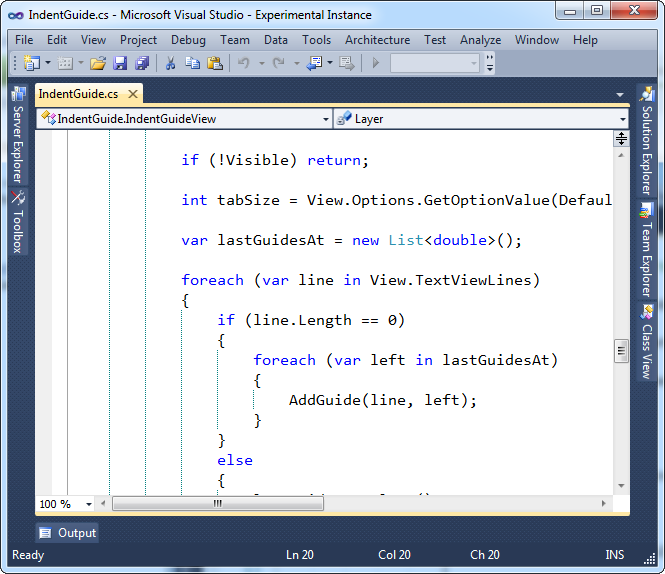
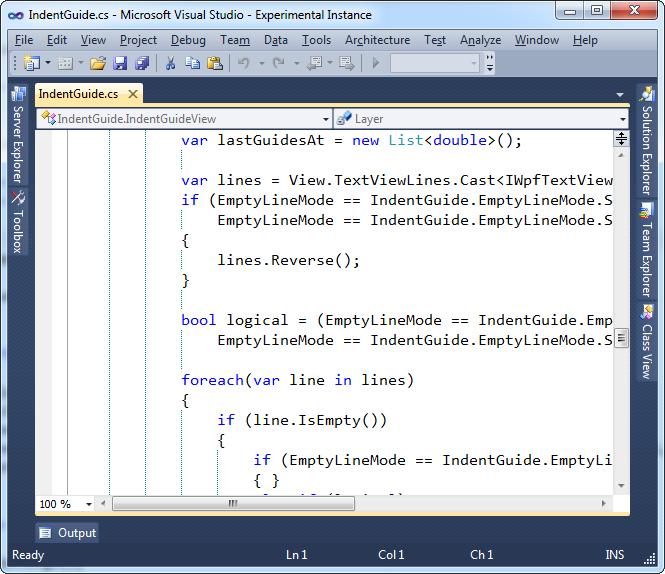
v8 (attempt 2): Fixed settings load. Changed default empty line mode. Updated screenshot.

diff --git a/IndentGuideService.cs b/IndentGuideService.cs
@@ -88,18 +88,18 @@ namespace IndentGuide
         void SIndentGuide.Initialize(EnvDTE.DTE dte)
         {
             var props = dte.get_Properties("IndentGuide", "Display");
-            
-            var p = props.Item("Visible");
-            if (p.NumIndices > 0) Visible = (bool)p.Value;
 
-            p = props.Item("LineStyle");
-            if (p.NumIndices > 0) LineStyle = (LineStyle)p.Value;
+            try { Visible = (bool)props.Item("Visible").Value; }
+            catch { }
 
-            p = props.Item("LineColor");
-            if (p.NumIndices > 0) LineColor = (Color)p.Value;
+            try { LineStyle = (LineStyle)props.Item("LineStyle").Value; }
+            catch { }
 
-            p = props.Item("EmptyLineMode");
-            if (p.NumIndices > 0) EmptyLineMode = (EmptyLineMode)p.Value;
+            try { LineColor = (Color)props.Item("LineColor").Value; }
+            catch { }
+
+            try { EmptyLineMode = (EmptyLineMode)props.Item("EmptyLineMode").Value; }
+            catch { }
         }
 
         #region IIndentGuide Members

diff --git a/DisplayOptions.cs b/DisplayOptions.cs
@@ -16,7 +16,7 @@ namespace IndentGuide
             Visible = true;
             LineStyle = LineStyle.Dotted;
             LineColor = Color.Teal;
-            EmptyLineMode = EmptyLineMode.SameAsLineAboveActual;
+            EmptyLineMode = EmptyLineMode.SameAsLineAboveLogical;
             
             Service = (IIndentGuide)ServiceProvider.GlobalProvider.GetService(typeof(SIndentGuide));
             Service.VisibleChanged += new EventHandler(Service_VisibleChanged);
@@ -61,7 +61,7 @@ namespace IndentGuide
             Visible = true;
             LineStyle = LineStyle.Dotted;
             LineColor = Color.Teal;
-            EmptyLineMode = EmptyLineMode.SameAsLineAboveActual;
+            EmptyLineMode = EmptyLineMode.SameAsLineAboveLogical;
         }
 
         [ResourceDescription("VisibilityDescription")]
